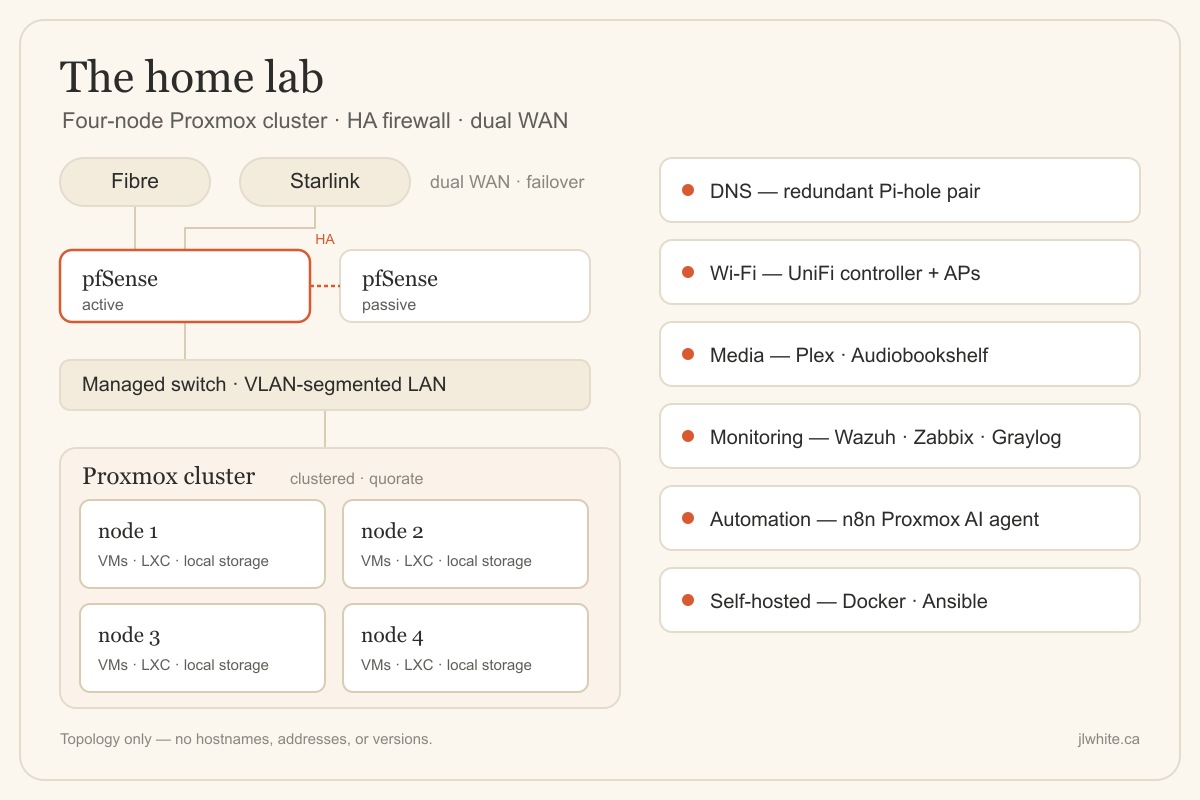
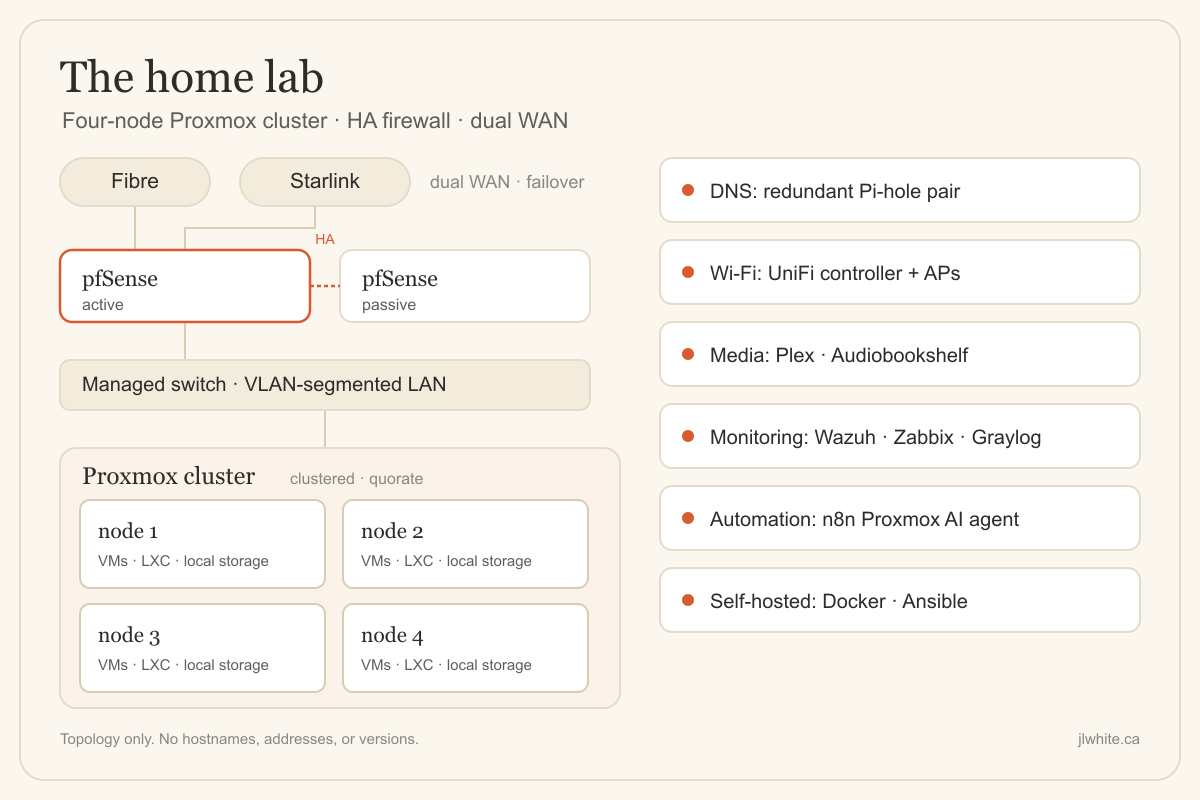
Mobile QA: nav layout, prose overflow guard, diagram em-dashes
From a real-viewport QA sweep at 390px:
- Header: on phones the 8-item nav wrapped into 3 cramped rows. Drop
  the brand to its own row with the theme toggle, and let the nav sit
  as one centered block below. No JS, all items visible.
- global.css: long unbreakable tokens (scopes/URLs/hashes) in prose
  could widen the page on narrow screens (the tapper-2 summary pushed
  18px of horizontal scroll). Add overflow-wrap so they break; <pre>
  still scrolls. Verified 0 horizontal overflow across all pages at 390px.
- Lab diagrams: regenerate home-lab + edge-ai-bench covers with the
  em-dash labels recast to colons (baked-in image text the source
  grep couldn't reach).

diff --git a/src/styles/global.css b/src/styles/global.css
@@ -87,6 +87,10 @@ body {
   line-height: 1.65;
   -webkit-font-smoothing: antialiased;
   text-rendering: optimizeLegibility;
+  /* Long unbreakable tokens (scopes, URLs, hashes) in prose break instead of
+     widening the page on narrow screens. <pre> keeps white-space: pre, so code
+     blocks still scroll rather than wrap. */
+  overflow-wrap: break-word;
 }
 img,
 picture,
@@ -148,6 +152,11 @@ code {
   background: var(--paper-2);
   padding: 0.1em 0.35em;
   border-radius: 5px;
+}
+/* Inline code only: let long tokens (URLs, scopes, hashes) break instead of
+   widening the page on narrow screens. Block code in <pre> still scrolls. */
+:not(pre) > code {
+  overflow-wrap: anywhere;
 }
 pre {
   background: var(--code-bg);